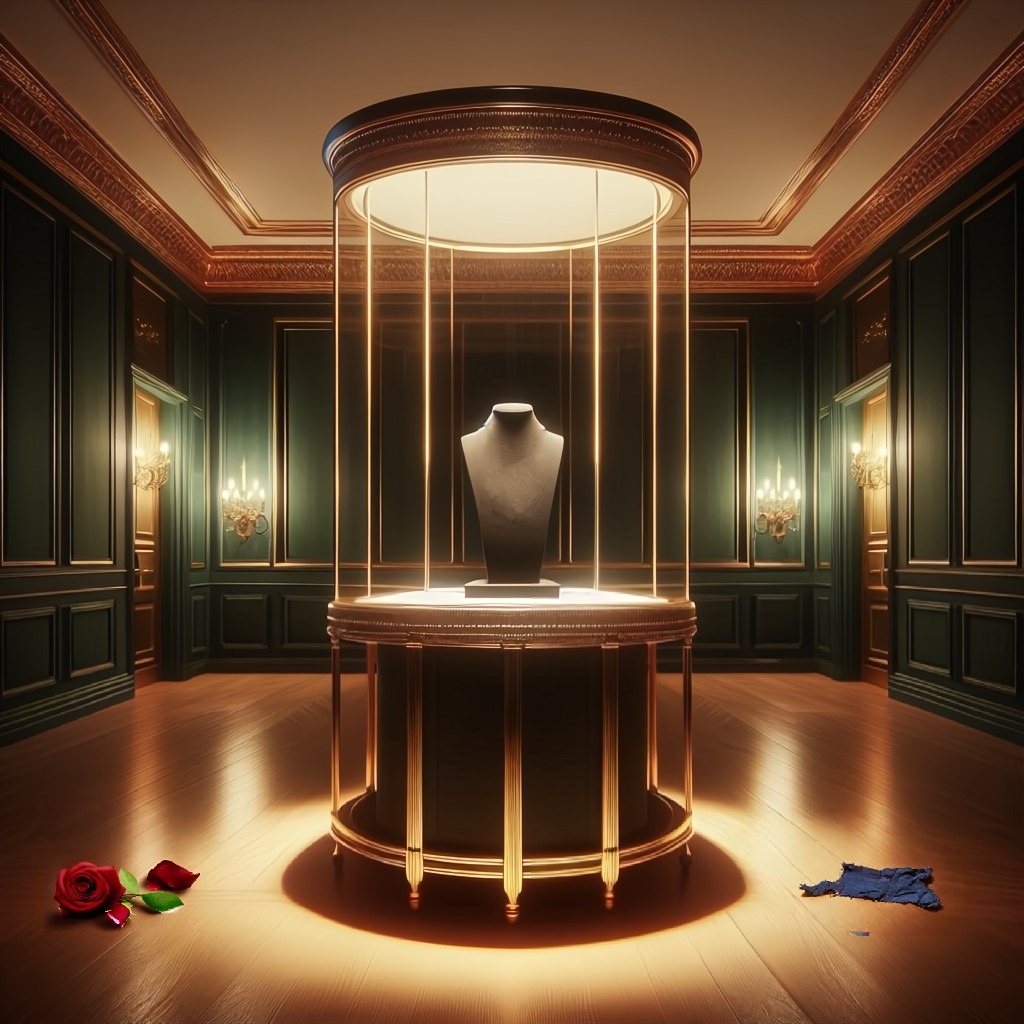
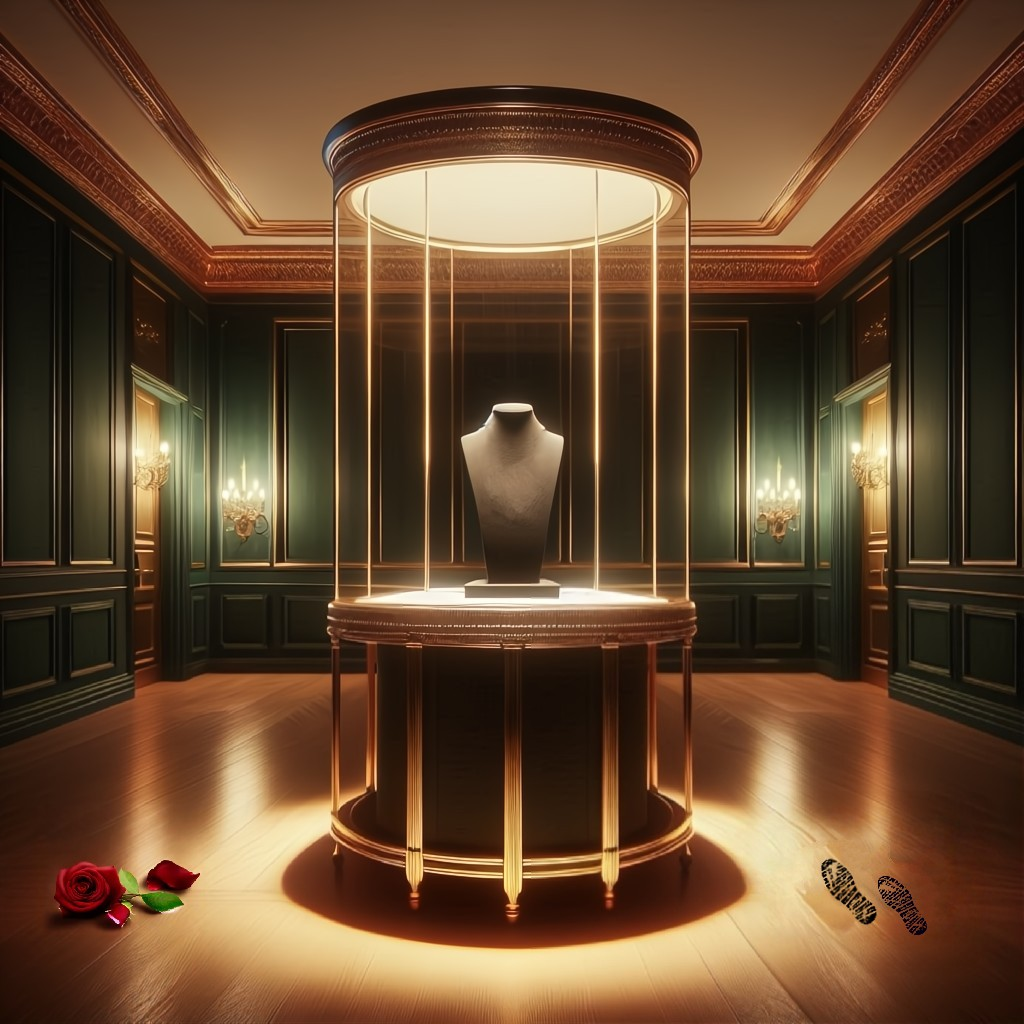
feat: new clue muddy shoe print instead of blue fabric

Changed region(s): [[0.7812, 0.8125, 0.9375, 0.9375]]

diff --git a/src/main/java/nz/ac/auckland/se206/controllers/RoomController.java b/src/main/java/nz/ac/auckland/se206/controllers/RoomController.java
@@ -17,7 +17,7 @@ import nz.ac.auckland.se206.speech.TextToSpeech;
 public class RoomController extends MapController {
   @FXML private Pane paneRoom;
   @FXML private Pane paneClue;
-  @FXML private Label fabricLabel;
+  @FXML private Label shoePrintLabel;
   @FXML private Label roseLabel;
   @FXML private ImageView bagOpen;
   @FXML private ImageView emeraldRoom;
@@ -118,7 +118,7 @@ public class RoomController extends MapController {
     yellowPaper.setVisible(false);
     revealLetterGrid.setVisible(false);
     roseLabel.setVisible(false);
-    fabricLabel.setVisible(false);
+    shoePrintLabel.setVisible(false);
 
     // Shows the specified clue image
     image.setVisible(true);
@@ -188,8 +188,9 @@ public class RoomController extends MapController {
   }
 
   @FXML
-  private void clickFabric() {
-    fabricLabel.setVisible(true);
+  private void clickShoePrint() {
+    shoePrintLabel.setVisible(true);
+    App.playCustomSoundEffect("mud.mp3");
   }
 
   @FXML
